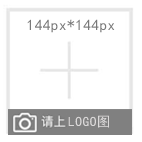
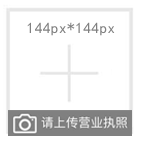
1

diff --git a/pages/index/index.js b/pages/index/index.js
@@ -173,8 +173,10 @@ Page({
     tap_map: function (event) {
         let map_list = this.data.map_list
         map_list.forEach((value, index, array) => {
-            value.width = 50
-            value.height = 50
+            if (value.id != 9999) {
+                value.width = 50
+                value.height = 50
+            }
         })
         this.setData({
             list: [],
@@ -282,7 +284,28 @@ Page({
                             arr.push('0')
                             new_list.push(value)
                             if (arr.length == list.length) {
+                                let new_map = []
                                 let new_arr = new_list.sort(this.compare("distance_count"))
+                                let center = [{
+                                    id: 9999,
+                                    latitude: this.data.latitude_o,
+                                    longitude: this.data.longitude_o,
+                                    iconPath: '/images/empty.png',
+                                    width: 10,
+                                    height: 10,
+                                    callout: {
+                                        content: `附近${near_count}个网点`,
+                                        display: 'ALWAYS',
+                                        textAlign: 'center',
+                                        color: '#666',
+                                        fontSize: 12,
+                                        padding: 8,
+                                        borderRadius: 10,
+                                        borderWidth: 1,
+                                        borderColor: '#ddd',
+                                        bgColor: '#fff'
+                                    }
+                                }]
                                 let last_distance = 0
                                 if (new_arr.length < 4) {
                                     last_distance = new_list[new_list.length - 1].distance_count
@@ -306,9 +329,10 @@ Page({
                                         bottom = 600
                                         break
                                 }
+                                new_map = new_arr.concat(center)
                                 this.setData({
                                     list: new_arr,
-                                    map_list: new_arr,
+                                    map_list: new_map,
                                     near_count: near_count,
                                     bottom: bottom,
                                     map_scale: this.get_scale(last_distance)

diff --git a/pages/my/my.js b/pages/my/my.js
@@ -1,3 +1,5 @@
+const app = getApp()
+const QQMap = require('../../utils/qqmap.js')
 // pages/my/my.js
 Page({
 
@@ -6,7 +8,8 @@ Page({
    */
   data: {
     nickname: '',
-    headerimg: ''
+    headerimg: '',
+    phone: ''
   },
 
   /**
@@ -17,6 +20,11 @@ Page({
           this.setData({
               nickname: wx.getStorageSync('nickname'),
               headerimg: wx.getStorageSync('headerimg')
+          })
+      }
+      if (wx.getStorageSync('phone')) {
+          this.setData({
+              phone: wx.getStorageSync('phone')
           })
       }
   },
@@ -97,23 +105,44 @@ Page({
   },
 
   getPhoneNumber: function(e) { 
-    console.log(e.detail.errMsg) 
-    console.log(e.detail.iv) 
-    console.log(e.detail.encryptedData) 
     if (e.detail.errMsg == 'getPhoneNumber:fail user deny'){
       wx.showModal({
           title: '提示',
           showCancel: false,
-          content: '未授权',
+          content: '请重新点击授权',
           success: function (res) { }
       })
     } else {
-      wx.showModal({
-          title: '提示',
-          showCancel: false,
-          content: '已授权',
-          success: function (res) { }
-      })
+      console.log(e.detail.errMsg) 
+      console.log(e.detail.iv) 
+      console.log(e.detail.encryptedData)
+      let t = this
+      wx.login({
+          success(s) {
+              console.log(s)
+              app.http_post("Getphone", {
+                  code: s.code,
+                  encryptedData: e.detail.encryptedData,
+                  iv: e.detail.iv
+              }, (ss) => {
+                  console.log(ss)
+                  if (ss.phoneNumber) {
+                    let phone = ss.phoneNumber
+                    phone = phone.substr(0,3) + '****' + phone.substr(7)
+                    t.setData({
+                        phone: phone 
+                    })
+                    wx.setStorageSync("phone", phone)
+                    wx.showModal({
+                        title: '提示',
+                        showCancel: false,
+                        content: '已授权',
+                        success: function (res) { }
+                    })
+                  }
+              });
+          }
+      })   
     }
   }
 

diff --git a/pages/store-enter/store-enter.js b/pages/store-enter/store-enter.js
@@ -18,6 +18,7 @@ Page({
         img_1: '',
         img_2: '',
         img_3: '',
+        img_4: '',
         area_data: [],
         area_state: 99,
         grade_data: ['总公司','分公司','门店'],
@@ -25,6 +26,7 @@ Page({
         ver: '获取验证码',
         code: '',
         ccode: '',
+        idcard: '',
         checked: true
     },
 
@@ -83,6 +85,7 @@ Page({
         let img_1 = this.data.img_1
         let img_2 = this.data.img_2
         let img_3 = this.data.img_3
+        let img_4 = this.data.img_4
         let latitude = this.data.latitude
         let longitude = this.data.longitude
         let start = this.data.start
@@ -94,7 +97,8 @@ Page({
         let code = this.data.code
         let ccode = this.data.ccode
         let checked = this.data.checked
-        if (!company || !shop || !sshop || !people || !tel || !address || !img_0 || !img_1 || !img_2 || !img_3 || !latitude || !longitude || !start || !end || area_state == 99 || grade_state == 99) {
+        let idcard = this.data.idcard
+        if (!company || !shop || !sshop || !people || !tel || !address || !img_0 || !img_1 || !img_2 || !img_3 || !img_4 || !latitude || !longitude || !start || !end || !idcard || area_state == 99 || grade_state == 99) {
             wx.showToast({
                 title: '请把信息填写完整',
                 icon: 'none'
@@ -123,10 +127,12 @@ Page({
                 s_address: address,
                 latitude: latitude,
                 longitude: longitude,
+                c_code: idcard,
                 s_img: img_0,
                 yingyeimg: img_1,
                 mengimg: img_2,
                 travelallowimg: img_3,
+                workimg: img_4,
                 starttime: start,
                 endtime: end,
                 allrange: area_data[area_state].fname,
@@ -225,6 +231,8 @@ Page({
             case 6:
                 name = 'code'
                 break
+            case 7:
+                name = 'idcard'
         }
         this.setData({
             [name]: event.detail.value
